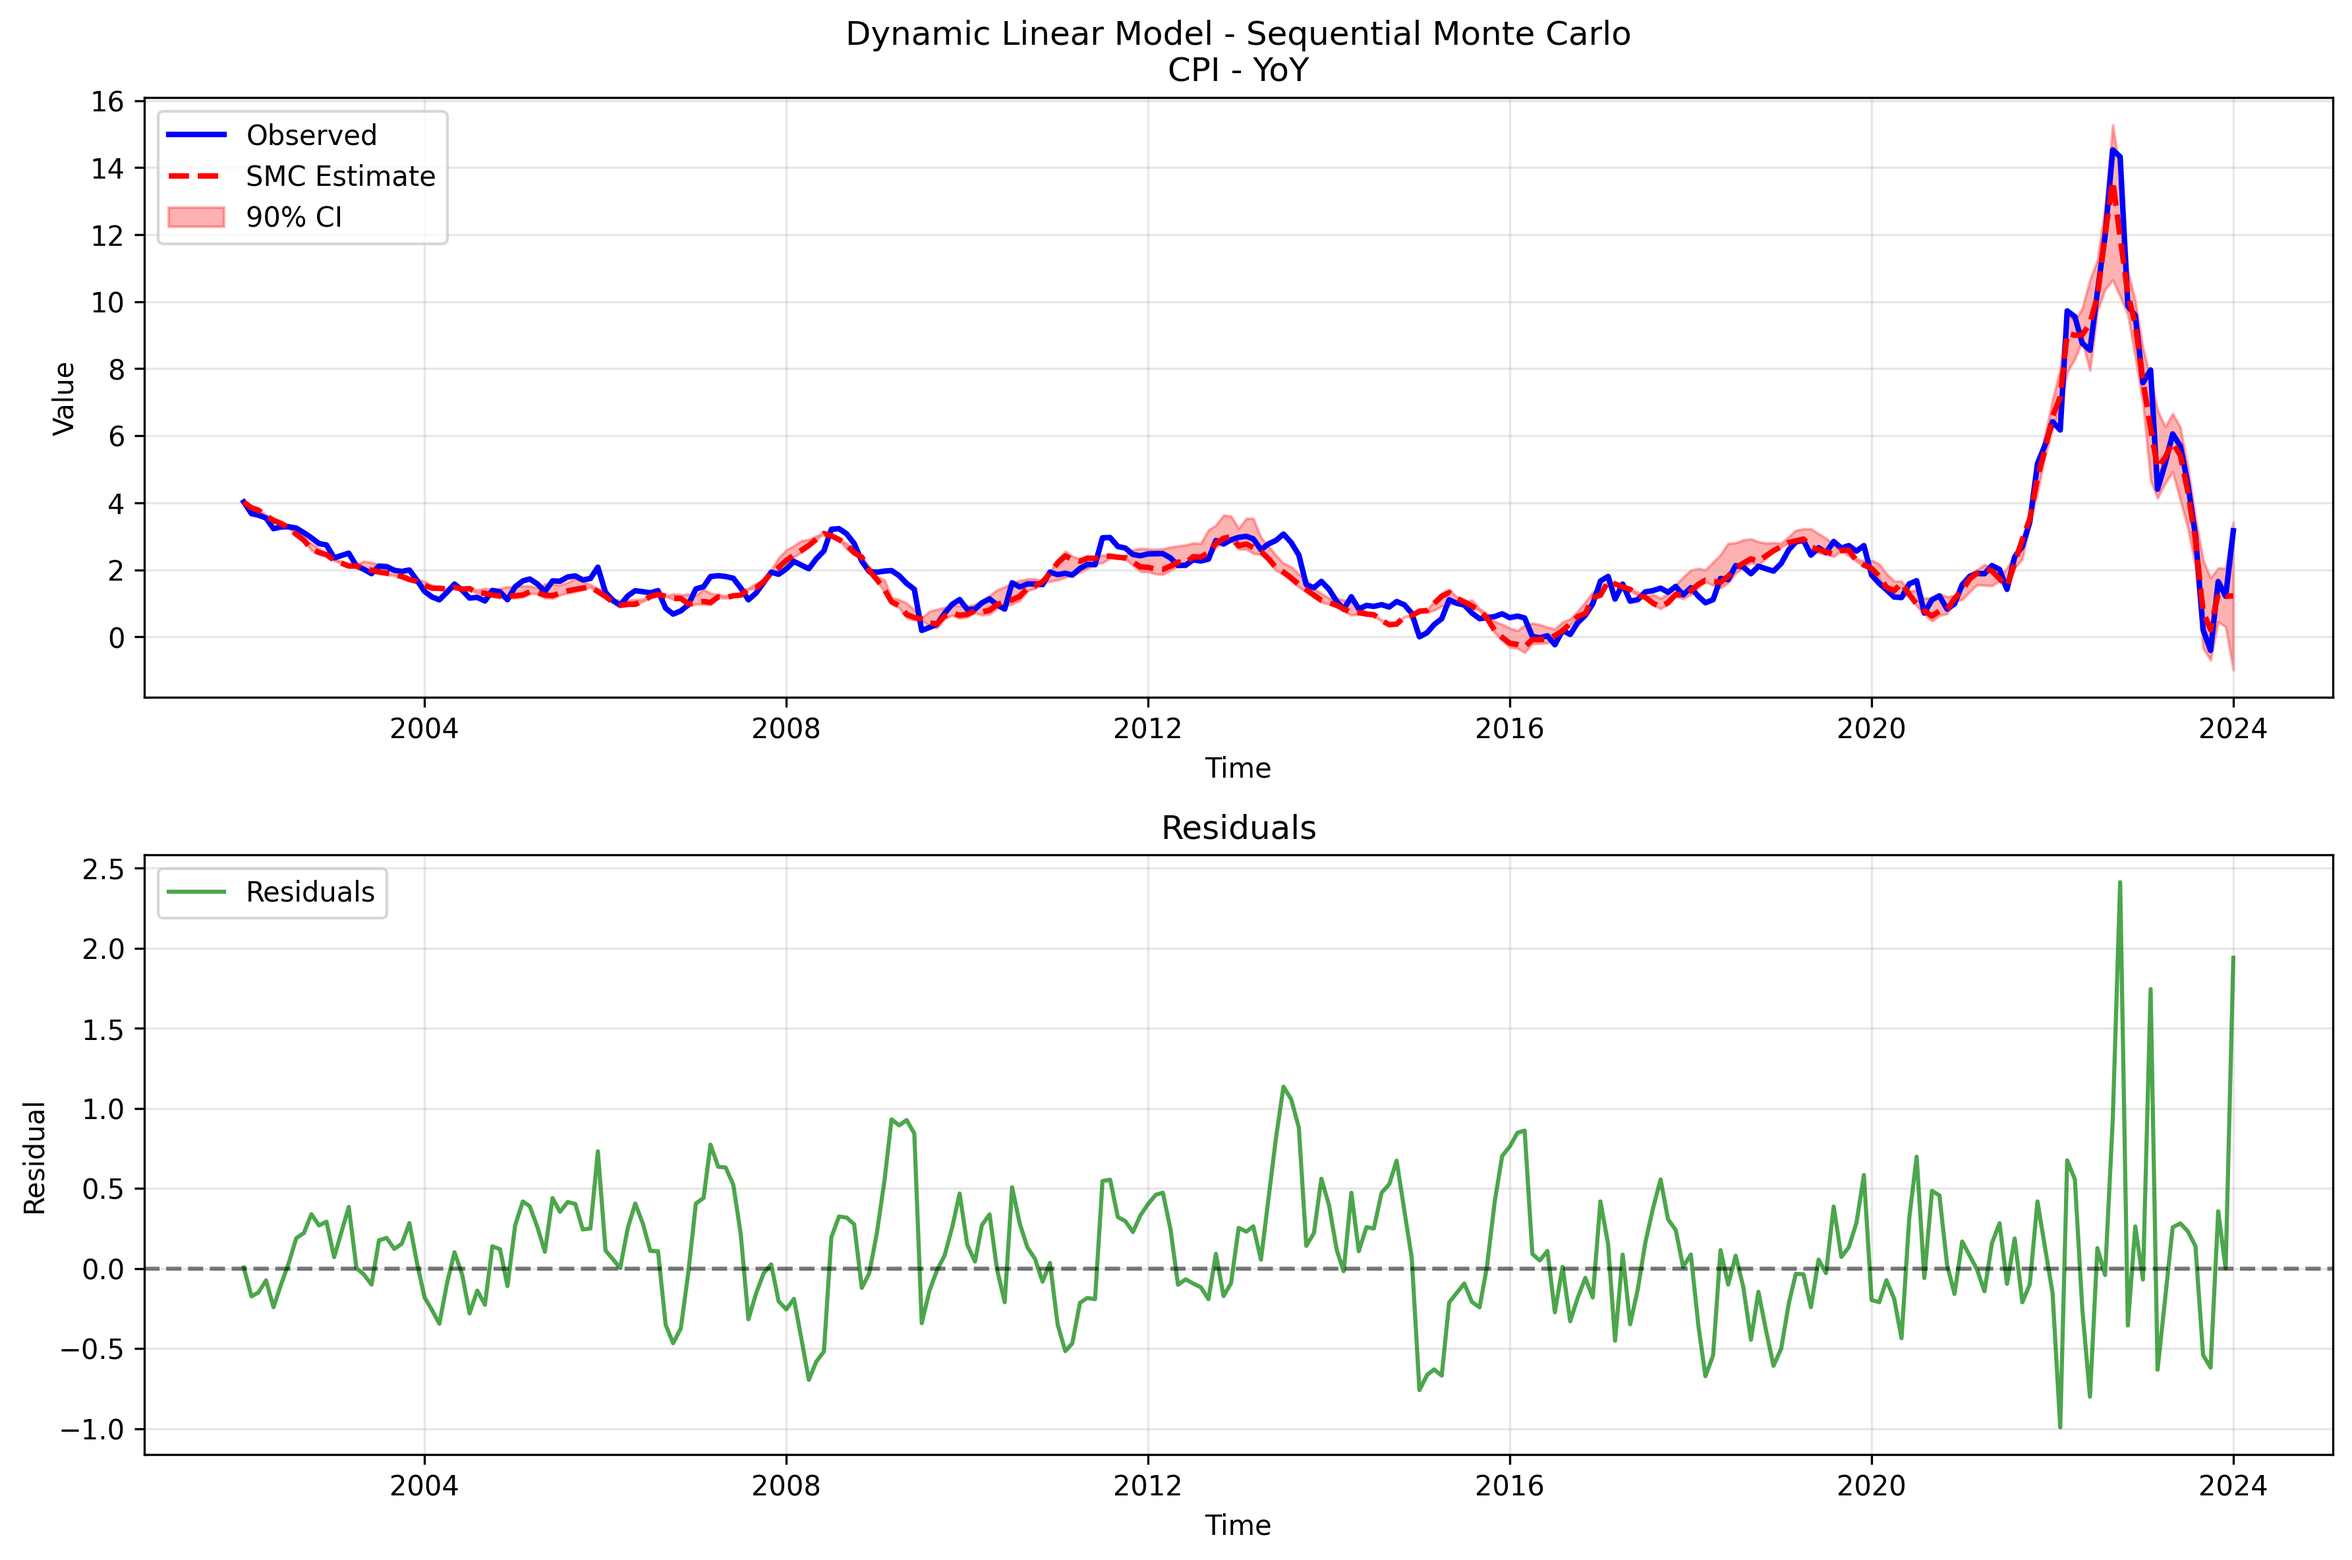
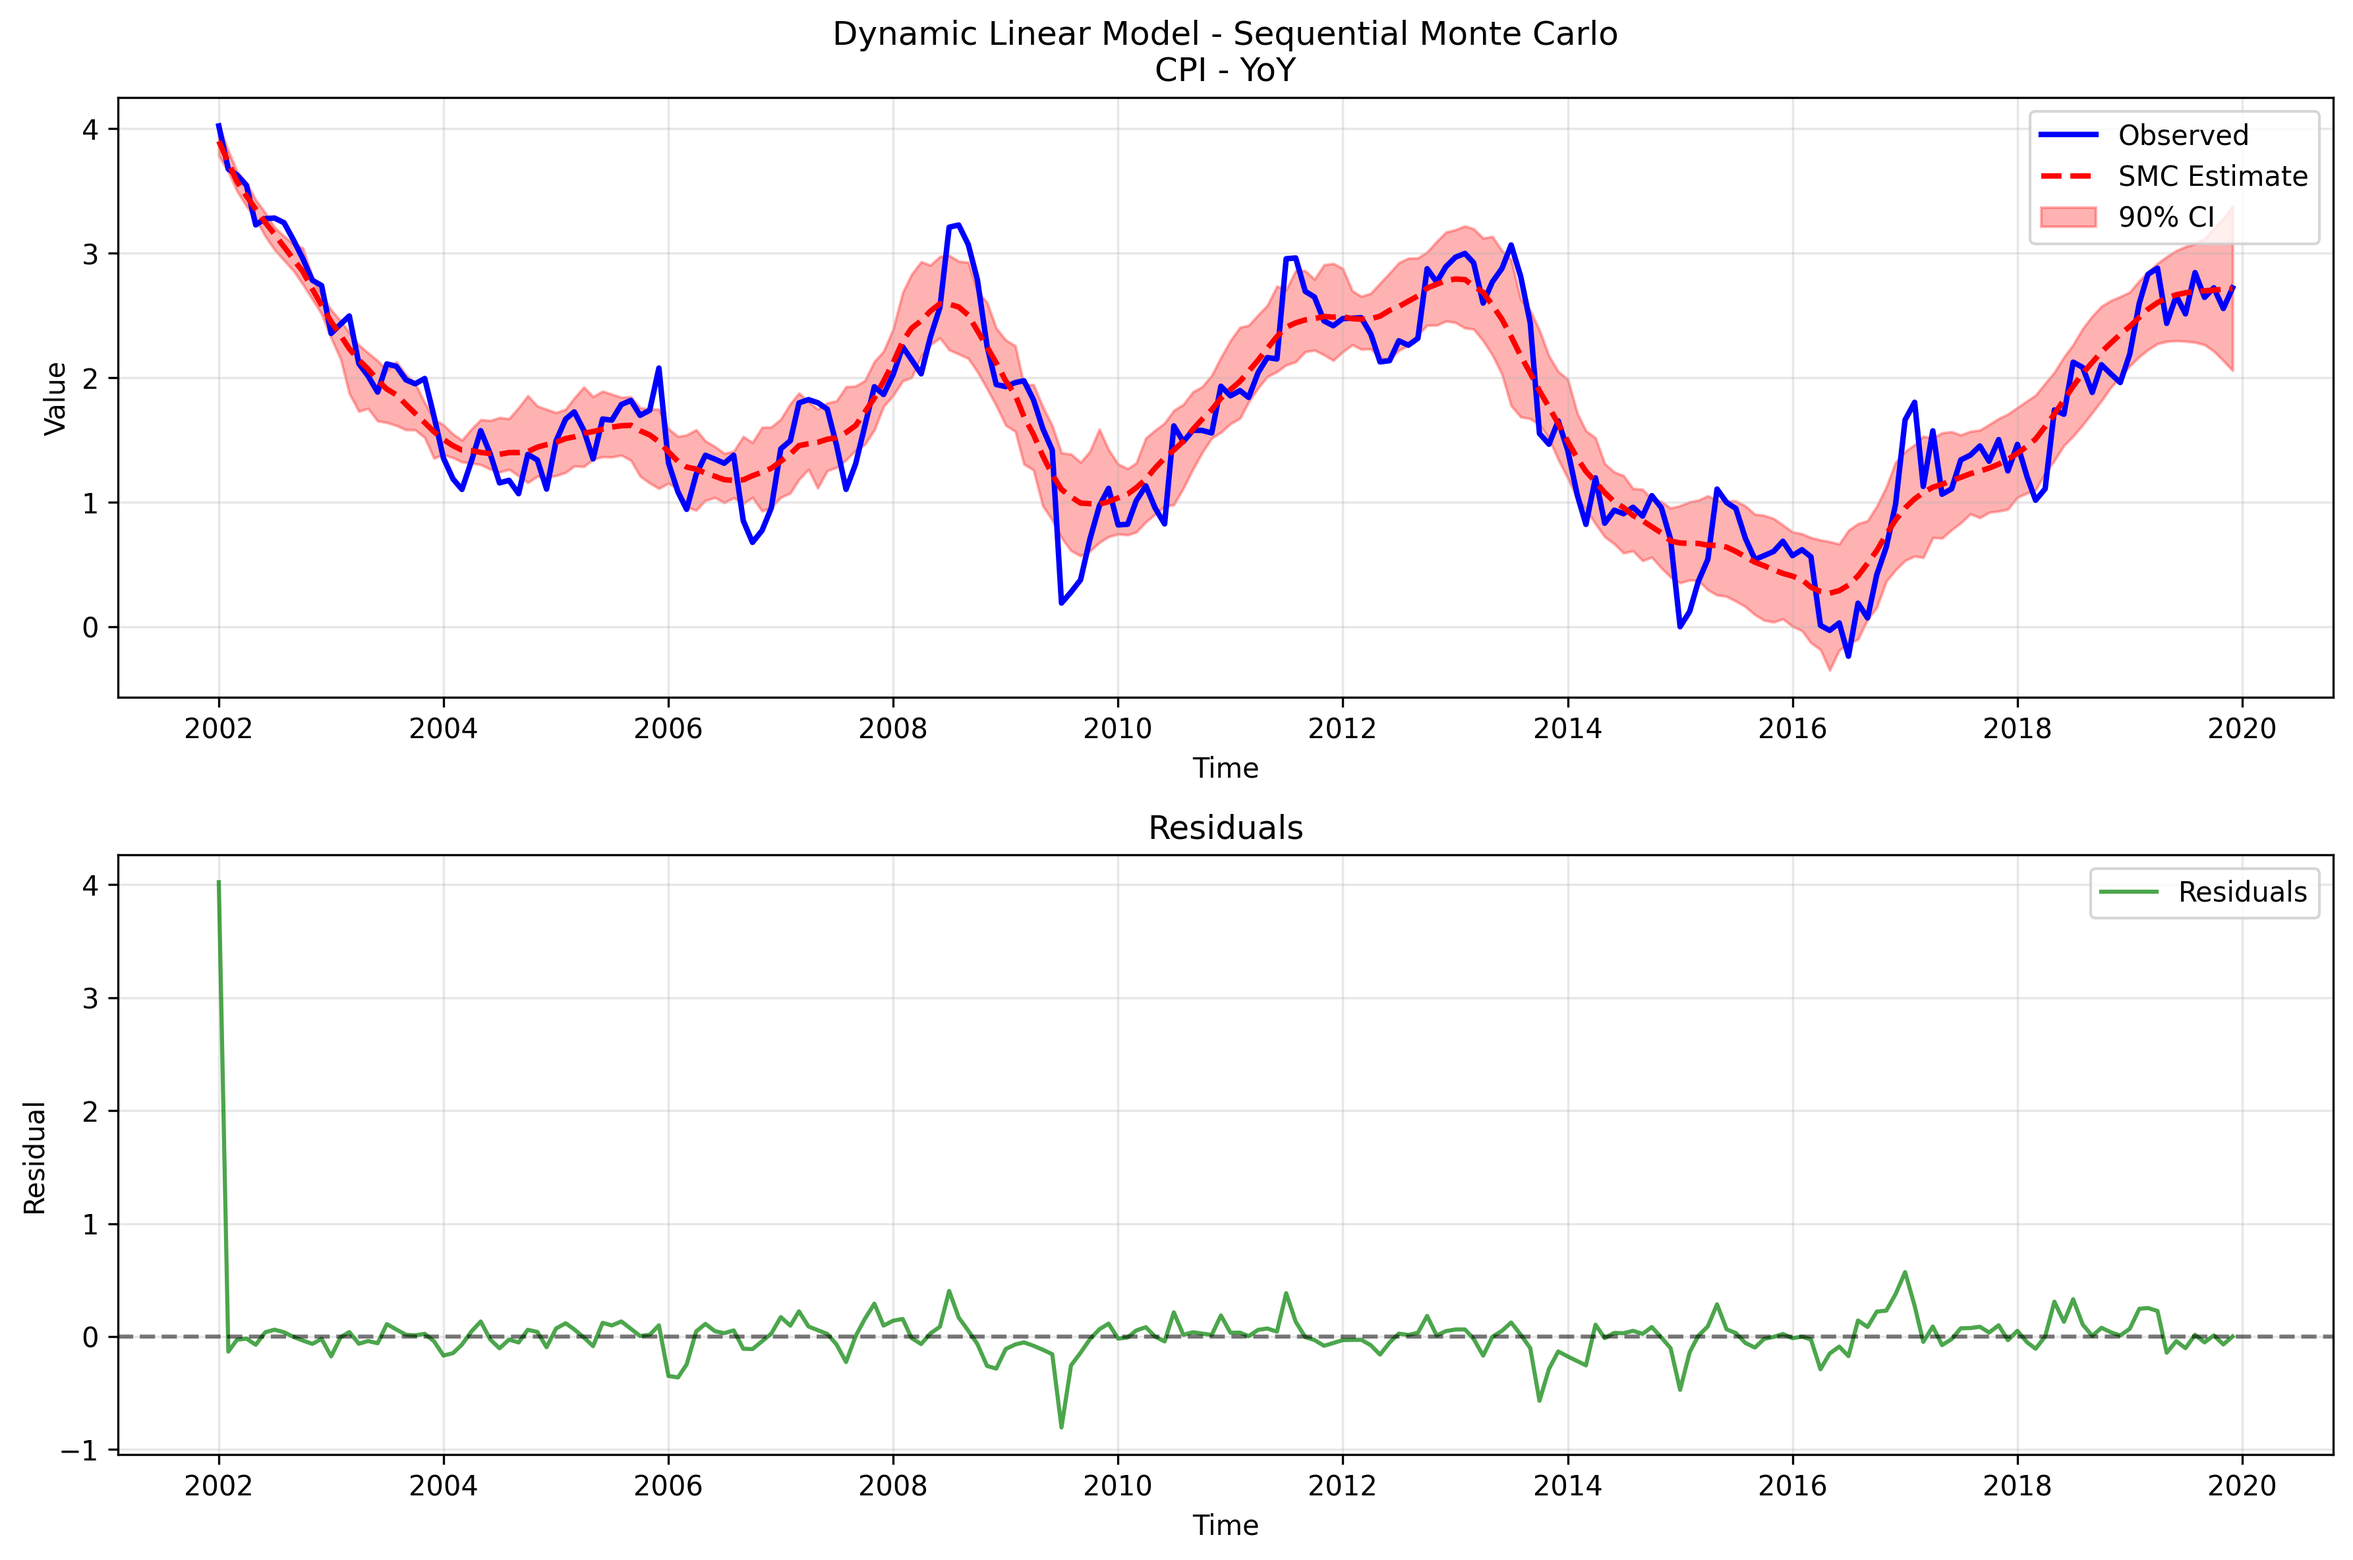
SMC for oos

diff --git a/src/bayesian_dlm_smc.py b/src/bayesian_dlm_smc.py
@@ -5,15 +5,16 @@ import numpy as np
 import matplotlib.pyplot as plt
 import numpyro.distributions as dist
 from tqdm import tqdm
+from src.utils import train_test_split_time_series
 
-# Stratified resampling
+# Stratified resampling function (unchanged)
 def stratified_resample(weights, rng_key):
     N = len(weights)
     positions = (jnp.arange(N) + random.uniform(rng_key, shape=(N,))) / N
     cumsum = jnp.cumsum(weights)
     return jnp.searchsorted(cumsum, positions)
 
-# Particle filter + smoother for DLM with latent regime switching and Bayesian noise
+# Particle filter for DLM with latent regime switching (unchanged)
 def particle_filter_dlm(y, time_index, num_particles=2000, lag=5):
     T = len(y)
     rng_key = random.PRNGKey(0)
@@ -26,7 +27,7 @@ def particle_filter_dlm(y, time_index, num_particles=2000, lag=5):
     p_stay_calm = 0.97
     p_stay_crisis = 0.95
 
-    # Initialize particle arrays
+    # Initialize particles and weights
     particles_level = jnp.zeros((num_particles, T))
     particles_trend = jnp.zeros((num_particles, T))
     particles_regime = jnp.zeros((num_particles, T), dtype=jnp.int32)
@@ -35,69 +36,56 @@ def particle_filter_dlm(y, time_index, num_particles=2000, lag=5):
 
     weights = jnp.ones(num_particles) / num_particles
 
-    # Initialize first time step particles
     rng_key, sk1, sk2 = random.split(rng_key, 3)
     particles_level = particles_level.at[:, 0].set(
         y[0] + random.normal(sk1, (num_particles,)) * jnp.exp(log_sigma_obs_prior_mean))
     particles_trend = particles_trend.at[:, 0].set(random.normal(sk2, (num_particles,)) * 0.1)
-    particles_regime = particles_regime.at[:, 0].set(0)  # calm regime
+    particles_regime = particles_regime.at[:, 0].set(0)
     particles_log_sigma_obs = particles_log_sigma_obs.at[:, 0].set(log_sigma_obs_prior_mean)
     particles_log_sigma_state = particles_log_sigma_state.at[:, 0].set(log_sigma_state_prior_mean)
 
     filtered_level = jnp.zeros(T)
     filtered_trend = jnp.zeros(T)
-    filtered_regime_prob = jnp.zeros(T)  # Probability of crisis regime
+    filtered_regime_prob = jnp.zeros(T)
 
-    ancestor_indices = jnp.zeros((num_particles, T), dtype=jnp.int32)
     jitter_std = 0.02
-
-    # Transition matrix for regimes
     transition_matrix = jnp.array([[p_stay_calm, 1 - p_stay_calm],
                                    [1 - p_stay_crisis, p_stay_crisis]])
 
     for t in tqdm(range(1, T), desc="Particle Filtering"):
-        # Effective sample size (ESS)
         ess = 1. / jnp.sum(weights ** 2)
         if ess < num_particles / 2:
             rng_key, subkey = random.split(rng_key)
             idx = stratified_resample(weights, subkey)
-
-            # Resample particles
             particles_level = particles_level[idx]
             particles_trend = particles_trend[idx]
             particles_regime = particles_regime[idx]
             particles_log_sigma_obs = particles_log_sigma_obs[idx]
             particles_log_sigma_state = particles_log_sigma_state[idx]
-
             weights = jnp.ones(num_particles) / num_particles
 
-            # Add jitter to maintain diversity (only at last time step)
             rng_key, jkey = random.split(rng_key)
             particles_level = particles_level.at[:, t-1].add(random.normal(jkey, (num_particles,)) * jitter_std)
             rng_key, jkey = random.split(rng_key)
             particles_trend = particles_trend.at[:, t-1].add(random.normal(jkey, (num_particles,)) * jitter_std)
             rng_key, jkey = random.split(rng_key)
-            particles_log_sigma_obs = particles_log_sigma_obs.at[:, t-1].add(random.normal(jkey, (num_particles,)) * jitter_std/5)
+            particles_log_sigma_obs = particles_log_sigma_obs.at[:, t-1].add(random.normal(jkey, (num_particles,)) * jitter_std / 5)
             rng_key, jkey = random.split(rng_key)
-            particles_log_sigma_state = particles_log_sigma_state.at[:, t-1].add(random.normal(jkey, (num_particles,)) * jitter_std/5)
+            particles_log_sigma_state = particles_log_sigma_state.at[:, t-1].add(random.normal(jkey, (num_particles,)) * jitter_std / 5)
 
-        # Regime transition probabilities per particle
         regime_prev = particles_regime[:, t - 1]
-        probs = transition_matrix[regime_prev]  # shape (num_particles, 2)
+        probs = transition_matrix[regime_prev]
 
-        # Vectorized sampling of regimes
         rng_key, subkey = random.split(rng_key)
         rng_keys_regime = random.split(subkey, num_particles)
         sample_one = lambda rng_key, p: dist.Categorical(probs=p).sample(rng_key)
         regime_t = jax.vmap(sample_one)(rng_keys_regime, probs)
         particles_regime = particles_regime.at[:, t].set(regime_t)
 
-        # Update noise parameters as random walks
         rng_key, sk_obs, sk_state = random.split(rng_key, 3)
         log_sigma_obs_t = particles_log_sigma_obs[:, t - 1] + random.normal(sk_obs, (num_particles,)) * 0.05
         log_sigma_state_t = particles_log_sigma_state[:, t - 1] + random.normal(sk_state, (num_particles,)) * 0.05
 
-        # Clip log sigmas for numerical stability
         log_sigma_obs_t = jnp.clip(log_sigma_obs_t, jnp.log(0.005), jnp.log(1.0))
         log_sigma_state_t = jnp.clip(log_sigma_state_t, jnp.log(0.001), jnp.log(0.5))
 
@@ -107,11 +95,9 @@ def particle_filter_dlm(y, time_index, num_particles=2000, lag=5):
         sigma_obs_t = jnp.exp(log_sigma_obs_t)
         sigma_state_t = jnp.exp(log_sigma_state_t)
 
-        # Inflate noise in crisis regime
         sigma_obs_t = jnp.where(regime_t == 1, sigma_obs_t * 3.0, sigma_obs_t)
         sigma_state_t = jnp.where(regime_t == 1, sigma_state_t * 3.0, sigma_state_t)
 
-        # State transition update
         rng_key, sk1, sk2 = random.split(rng_key, 3)
         new_trend = 0.85 * jnp.tanh(particles_trend[:, t - 1]) + random.normal(sk1, (num_particles,)) * sigma_state_t
         new_level = particles_level[:, t - 1] + new_trend + random.normal(sk2, (num_particles,)) * sigma_state_t
@@ -119,66 +105,64 @@ def particle_filter_dlm(y, time_index, num_particles=2000, lag=5):
         particles_trend = particles_trend.at[:, t].set(new_trend)
         particles_level = particles_level.at[:, t].set(new_level)
 
-        # Compute weights based on observation likelihood
         log_weights = dist.Normal(new_level, sigma_obs_t).log_prob(y[t])
         log_weights = jnp.where(jnp.isnan(log_weights), -jnp.inf, log_weights)
-        log_weights -= jnp.max(log_weights)  # stabilize
+        log_weights -= jnp.max(log_weights)
         weights = jnp.exp(log_weights)
-        weights = jnp.clip(weights, 1e-12, jnp.inf)  # avoid zeros
+        weights = jnp.clip(weights, 1e-12, jnp.inf)
         weights /= jnp.sum(weights)
 
-        ancestor_indices = ancestor_indices.at[:, t].set(jnp.arange(num_particles))  # placeholder for ancestry
-
-        # Weighted means
         filtered_level = filtered_level.at[t].set(jnp.sum(particles_level[:, t] * weights))
         filtered_trend = filtered_trend.at[t].set(jnp.sum(particles_trend[:, t] * weights))
         filtered_regime_prob = filtered_regime_prob.at[t].set(jnp.sum(weights * regime_t))
 
-    # Backward smoothing (basic - can be improved)
-    smoothed_level = filtered_level
-    smoothed_trend = filtered_trend
-    smoothed_regime_prob = filtered_regime_prob
-
-    # Credible intervals from particle percentiles
     beta_lower = jnp.percentile(particles_level, 5, axis=0)
     beta_upper = jnp.percentile(particles_level, 95, axis=0)
     beta_mean = jnp.mean(particles_level, axis=0)
 
-    return smoothed_level, beta_mean, beta_lower, beta_upper, particles_level, weights
+    return filtered_level, beta_mean, beta_lower, beta_upper, particles_level, weights
 
+# Main runner function integrating train/test split from utils.py
+def run_dlm_numpyro(df, target_col, train_start="2000-01-01", train_end="2019-12-31", test_start="2020-01-01", test_end=None, num_particles=5000, lag=5):
+    if test_end is None:
+        test_end = df.index.max().strftime("%Y-%m-%d")
 
-#  Main DLM Runner
-def run_dlm_numpyro(df, target_col, num_particles=5000, lag=5):
-    y_series = df[target_col].dropna()
-    y = y_series.to_numpy()
-    time_index = y_series.index
+    # Use the utils.py split function
+    _, y_train, _, y_test = train_test_split_time_series(
+        df,
+        train_start=train_start,
+        train_end=train_end,
+        test_start=test_start,
+        test_end=test_end,
+        target_col=target_col
+    )
+
+    y_train_np = y_train.dropna().to_numpy()
+    time_index = y_train.dropna().index
 
     smoothed, beta_mean, beta_lower, beta_upper, particles, weights = particle_filter_dlm(
-    y, time_index, num_particles=num_particles, lag=lag)
+        y_train_np, time_index, num_particles=num_particles, lag=lag
+    )
 
-
-    residuals = y - smoothed
-    burn_in = len(y) // 10
+    residuals = y_train_np - smoothed
+    burn_in = len(y_train_np) // 10
     rmse = float(np.sqrt(np.mean(residuals[burn_in:] ** 2)))
-    time_index = y_series.index.to_numpy()
-    # Plot
+
+    # Plot training results
     plt.figure(figsize=(12, 8))
 
-    # Top: observed and estimate
     plt.subplot(2, 1, 1)
-    plt.plot(time_index, y, label="Observed", color="blue", linewidth=2)
-    plt.plot(time_index, beta_mean, label="SMC Estimate", linestyle="--", color="red", linewidth=2)
-    plt.fill_between(time_index, beta_lower, beta_upper, alpha=0.3, color="red", label="90% CI")
+    plt.plot(time_index.to_numpy(), y_train_np, label="Observed", color="blue", linewidth=2)
+    plt.plot(time_index.to_numpy(), beta_mean, label="SMC Estimate", linestyle="--", color="red", linewidth=2)
+    plt.fill_between(time_index.to_numpy(), beta_lower, beta_upper, alpha=0.3, color="red", label="90% CI")
     plt.title(f"Dynamic Linear Model - Sequential Monte Carlo\n{target_col}")
     plt.xlabel("Time")
     plt.ylabel("Value")
     plt.legend()
     plt.grid(True, alpha=0.3)
 
-    # Bottom: residuals
     plt.subplot(2, 1, 2)
-    residuals = y - beta_mean
-    plt.plot(time_index, residuals, 'g-', alpha=0.7, label="Residuals")
+    plt.plot(time_index.to_numpy(), residuals, 'g-', alpha=0.7, label="Residuals")
     plt.axhline(y=0, color='black', linestyle='--', alpha=0.5)
     plt.title("Residuals")
     plt.xlabel("Time")
@@ -190,9 +174,7 @@ def run_dlm_numpyro(df, target_col, num_particles=5000, lag=5):
     plt.savefig("results/numpyro_dlm_forecast.png", dpi=300, bbox_inches='tight')
     plt.close()
 
-    # RMSE
-    #rmse = float(np.sqrt(np.mean((beta_mean - y) ** 2)))
-    print(f"NumPyro SMC DLM RMSE: {rmse:.4f}")
+    print(f"NumPyro SMC DLM RMSE on training: {rmse:.4f}")
     print(f"Final Effective Sample Size: {1.0 / jnp.sum(weights**2):.2f}")
 
     return particles, rmse

diff --git a/main.py b/main.py
@@ -76,7 +76,15 @@ for model_name, model_desc in main_pbar:
             _, rmse = run_dlm_pymc(df, target_col)
             
         elif model_name == "Bayesian DLM (SMC)":
-            _, rmse = run_dlm_numpyro(df, target_col)
+            _, rmse = run_dlm_numpyro(
+                df,
+                target_col,
+                train_start="2001-12-31",
+                train_end="2019-12-31",
+                test_start="2020-01-01",
+                test_end="2023-12-31"
+    )
+
         elif model_name == "Bayesian DLM (DR)":
             trace, rmse = run_dlm_dynamic_regression(
                 df,
